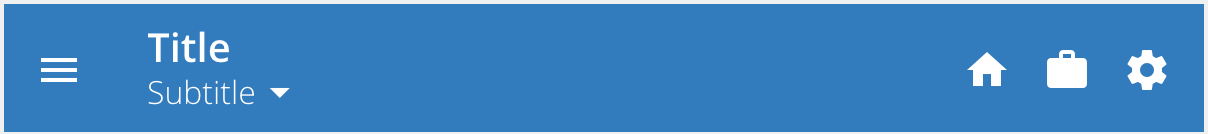
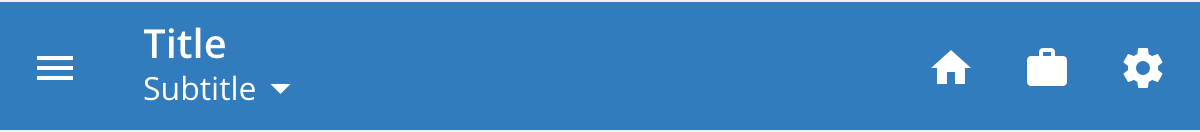
Update text-content max-width, update full-config story, update toolbar image

Changed region(s): [[0.0, 0.0, 1.0, 1.0], [0.1233, 0.5758, 0.2467, 0.7879], [0.1233, 0.2121, 0.2158, 0.4848]]

diff --git a/demos/storybook/stories/dropdown-toolbar/with-full-config.stories.ts b/demos/storybook/stories/dropdown-toolbar/with-full-config.stories.ts
@@ -1,19 +1,8 @@
 import { text, number, select } from '@storybook/addon-knobs';
 import { action } from '@storybook/addon-actions';
+import { getDirection } from '@pxblue/storybook-rtl-addon';
 
 export const withFullConfig = (): any => ({
-    styles: [
-        `
-            [dir='rtl'] .settings-icon {
-                margin-right: 0;
-                margin-left: -8px;
-            }
-
-            .settings-icon {
-                margin-right: -8px;
-            }
-        `,
-    ],
     template: `
        <pxb-dropdown-toolbar [title]="title" [subtitle]="state.selected || subtitle">
             <button mat-icon-button pxb-nav-icon (click)="clickPXBIcon()" aria-label="menu icon">
@@ -27,13 +16,21 @@ export const withFullConfig = (): any => ({
         </ng-container>
         <pxb-spacer></pxb-spacer>
         <div>
-            <button mat-icon-button *ngIf="count > 0" (click)="clickRightContentIcon()" aria-label="home icon"><mat-icon>home</mat-icon></button>
-            <button mat-icon-button *ngIf="count > 1" (click)="clickRightContentIcon()" aria-label="work icon"><mat-icon>work</mat-icon></button>
-            <button mat-icon-button class="settings-icon" *ngIf="count > 2" (click)="clickRightContentIcon()" aria-label="settings icon"><mat-icon>settings</mat-icon></button>
+            <button mat-icon-button style="margin: 0 4px" *ngIf="count > 0" (click)="clickRightContentIcon()" aria-label="home icon"><mat-icon>home</mat-icon></button>
+            <button mat-icon-button style="margin: 0 4px" *ngIf="count > 1" (click)="clickRightContentIcon()" aria-label="work icon"><mat-icon>work</mat-icon></button>
+            <button mat-icon-button
+                *ngIf="count > 2" 
+                (click)="clickRightContentIcon()"
+                [style.marginRight.px]="direction() === 'rtl' ? 4 : -8"
+                [style.marginLeft.px]="direction() === 'rtl' ? -8 : 4"
+                aria-label="settings icon">
+                <mat-icon>settings</mat-icon>
+            </button>
         </div>
        </pxb-dropdown-toolbar>
     `,
     props: {
+        direction: getDirection,
         navIcon: select('pxb-nav-icon', ['menu', 'arrow_back'], 'menu'),
         title: text('title', 'Title'),
         subtitle: text('subtitle', 'Subtitle'),

diff --git a/components/src/core/dropdown-toolbar/dropdown-toolbar.component.scss b/components/src/core/dropdown-toolbar/dropdown-toolbar.component.scss
@@ -21,7 +21,7 @@
 
 .pxb-dropdown-toolbar-text-content-container {
     display: block;
-    max-width: 100%;
+    max-width: 50%;
 
     .pxb-dropdown-toolbar-title {
         line-height: 1.6rem;
